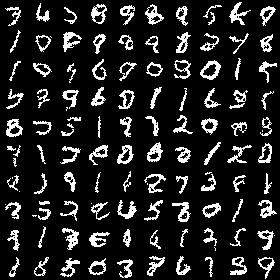
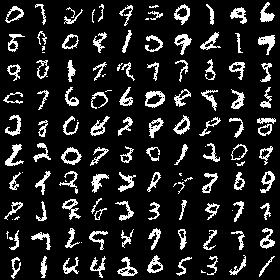
fix docstring and update readme

diff --git a/pixel_rnn.py b/pixel_rnn.py
@@ -174,7 +174,7 @@ def Skew(inputs):
 
 def Unskew(padded):
     """
-    input.shape: (batch size, HEIGHT, WIDTH, dim)
+    input.shape: (batch size, HEIGHT, 2*WIDTH - 1, dim)
     """
     return T.stack([padded[:, i, i:i+WIDTH, :] for i in xrange(HEIGHT)], axis=1)
 

diff --git a/README.md b/README.md
@@ -6,9 +6,9 @@ Not yet implemented:
 - Residual connections
 - 256-way softmax output
 
-The Diagonal BiLSTM gets a dev-set NLL of 86.29 after 6000 iterations (at which point it still hasn't fully converged).
+The Diagonal BiLSTM gets a dev-set NLL of 85.96 after 7000 iterations (at which point it still hasn't fully converged).
 
-Samples from the Diagonal BiLSTM after 6000 iterations:
+Samples from the Diagonal BiLSTM after 7000 iterations:
 
 ![Diagonal BiLSTM samples](https://raw.githubusercontent.com/igul222/pixel_rnn/master/samples.jpg)
 
